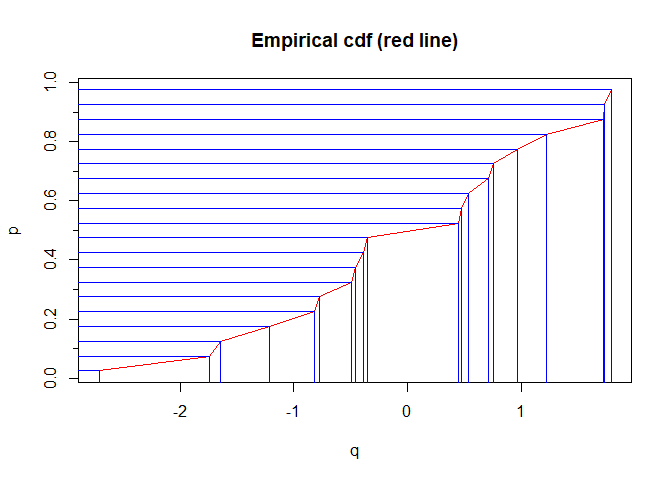
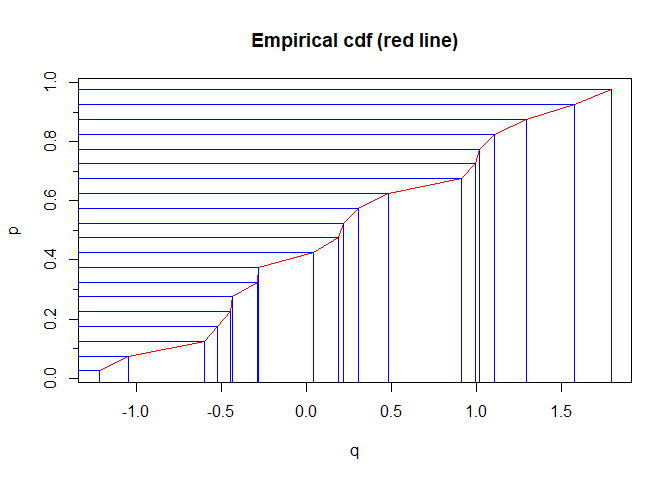
Update qqplot tutorial (correct qqline)

diff --git a/09_5_quantiles-qqplots.md b/09_5_quantiles-qqplots.md
@@ -1,7 +1,7 @@
 Quantiles and Q-Q plots
 ================
 Brett Melbourne
-6 Oct 2021
+6 Oct 2021 (updated 17 Oct 2022)
 
 A short tutorial on quantiles and Q-Q plots
 
@@ -57,7 +57,7 @@ Are 80% of the data less than the 0.8 quantile of 0.8416?
 sum(z < 0.8416) / 100000
 ```
 
-    ## [1] 0.79942
+    ## [1] 0.80144
 
 Yes, that’s about right.
 
@@ -71,6 +71,7 @@ Let’s say we have some data, y. We’ll imagine these are real data from
 now on. It’s a small dataset, say 20 points.
 
 ``` r
+set.seed(23)    #to reproduce the exact example
 y <- rnorm(20)
 ```
 
@@ -81,10 +82,10 @@ q <- sort(y)
 q #The observed quantiles
 ```
 
-    ##  [1] -2.7138498 -1.7393576 -1.6499127 -1.2132795 -0.8164366 -0.7741108
-    ##  [7] -0.4962083 -0.4561042 -0.3884596 -0.3563116  0.4449208  0.4763855
-    ## [13]  0.5317256  0.7110071  0.7526867  0.9637784  1.2197370  1.7223036
-    ## [19]  1.7296007  1.7916341
+    ##  [1] -1.21637643 -1.04653534 -0.59931281 -0.52017831 -0.44231380 -0.43468211
+    ##  [7] -0.28868865 -0.27808628  0.04543718  0.19321233  0.21828845  0.30813690
+    ## [13]  0.48155029  0.91326710  0.99660511  1.01920549  1.10749049  1.29457783
+    ## [19]  1.57577959  1.79338809
 
 So, for example, the fourth value of the ordered data is the quantile
 with p = 4/20. That is 4/20 of the data are less than or equal to this
@@ -94,7 +95,7 @@ value (but we’ll take that as an estimate for strictly less than):
 q[4]
 ```
 
-    ## [1] -1.21328
+    ## [1] -0.5201783
 
 Now, because this is a finite sample and the sample is quite small and
 we won’t expect the quantile for p = 1.0 to be in the sample, we include
@@ -106,27 +107,27 @@ p <- ( 1:n - 0.5 ) / n  #We'll take these as the probabilities
 cbind(p, q)             #The probabilities with their quantiles
 ```
 
-    ##           p          q
-    ##  [1,] 0.025 -2.7138498
-    ##  [2,] 0.075 -1.7393576
-    ##  [3,] 0.125 -1.6499127
-    ##  [4,] 0.175 -1.2132795
-    ##  [5,] 0.225 -0.8164366
-    ##  [6,] 0.275 -0.7741108
-    ##  [7,] 0.325 -0.4962083
-    ##  [8,] 0.375 -0.4561042
-    ##  [9,] 0.425 -0.3884596
-    ## [10,] 0.475 -0.3563116
-    ## [11,] 0.525  0.4449208
-    ## [12,] 0.575  0.4763855
-    ## [13,] 0.625  0.5317256
-    ## [14,] 0.675  0.7110071
-    ## [15,] 0.725  0.7526867
-    ## [16,] 0.775  0.9637784
-    ## [17,] 0.825  1.2197370
-    ## [18,] 0.875  1.7223036
-    ## [19,] 0.925  1.7296007
-    ## [20,] 0.975  1.7916341
+    ##           p           q
+    ##  [1,] 0.025 -1.21637643
+    ##  [2,] 0.075 -1.04653534
+    ##  [3,] 0.125 -0.59931281
+    ##  [4,] 0.175 -0.52017831
+    ##  [5,] 0.225 -0.44231380
+    ##  [6,] 0.275 -0.43468211
+    ##  [7,] 0.325 -0.28868865
+    ##  [8,] 0.375 -0.27808628
+    ##  [9,] 0.425  0.04543718
+    ## [10,] 0.475  0.19321233
+    ## [11,] 0.525  0.21828845
+    ## [12,] 0.575  0.30813690
+    ## [13,] 0.625  0.48155029
+    ## [14,] 0.675  0.91326710
+    ## [15,] 0.725  0.99660511
+    ## [16,] 0.775  1.01920549
+    ## [17,] 0.825  1.10749049
+    ## [18,] 0.875  1.29457783
+    ## [19,] 0.925  1.57577959
+    ## [20,] 0.975  1.79338809
 
 The relationship between p and the ordered y (i.e. q) is the empirical
 cdf
@@ -171,22 +172,35 @@ for ( i in 1:n ) {
 
 The Q-Q plot is the observed quantiles versus the theoretical quantiles.
 If the data are well approximated by the theoretical distribution (in
-this case Normal), then this should be a straightish line. In this case,
-since both the data and the theoretical distribution are standard normal
-(i.e. mean=0, sd=1), the line is expected to be 1:1. But since the
-dataset is small, the realization will be off the line.
+this case Normal), then this should be a straightish line. Since the
+dataset is small it won’t be perfectly straight.
 
 ``` r
 plot(qth, q)
-abline(0, 1, col="blue")
 ```
 
 ![](09_5_quantiles-qqplots_files/figure-gfm/unnamed-chunk-13-1.png)<!-- -->
 
-You can try running the code several times (starting from generating the
-data) and see how much it differs. Or try simulating a larger dataset.
-Or try simulating a dataset that is Normal with different mean and sigma
-(the line will still be straight), or generate data from a non-Normal
-distribution, such as lognormal or Poisson (the line will not be
-straight unless the distribution happens to be approximated well by the
-Normal).
+The following code makes the same plot using R’s built in functions and
+adds a line to indicate theoretically where the points should be.
+
+``` r
+qqnorm(y)
+qqline(y)
+```
+
+![](09_5_quantiles-qqplots_files/figure-gfm/unnamed-chunk-14-1.png)<!-- -->
+
+Explore how the Q-Q plot varies depending on the data. You can try
+running the following code several times and see how much it differs. Or
+try simulating a larger dataset. Or try simulating a dataset that is
+Normal with different mean and sigma (the line will still be straight),
+or generate data from a non-Normal distribution, such as lognormal
+(`rlnorm()`) or Poisson (`rpois()`) (the line will not be straight
+unless the distribution happens to be approximated well by the Normal).
+
+``` r
+y <- rnorm(20, mean=0, sd=1)
+qqnorm(y)
+qqline(y)
+```
